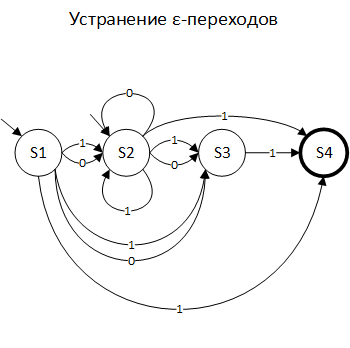
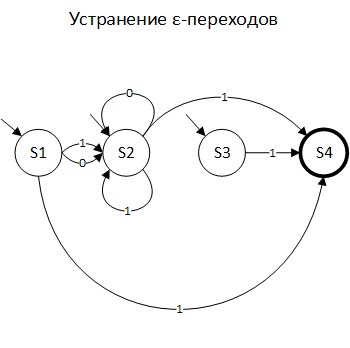
ТАиФЯ Лаб 3 правки второго задания

diff --git a/Теория автоматов и формальных языков/3/report.tex b/Теория автоматов и формальных языков/3/report.tex
@@ -289,7 +289,7 @@ $N_7$ → ε\\
 ε-замыкания: ε(S1) = \{S1, S2, S3\}, ε(S2) = \{S2, S3\}, ε(S3) = \{S3\}, ε(S4) = \{S4\}\\
 \begin{tabular}{|c|c|c|c|c|}
     \hline
-    & $\downarrow$ & $\downarrow$ & & 1\\
+    & $\downarrow$ & $\downarrow$ & $\downarrow$ & 1\\
     \hline
     & \begin{tabular}{c}ε(S1)\\\{S1, S2, S3\}\end{tabular} & \begin{tabular}{c}ε(S2)\\\{S2, S3\}\end{tabular} & \begin{tabular}{c}ε(S3)\\\{S3\}\end{tabular} & \begin{tabular}{c}ε(S4)\\\{S4\}\end{tabular} \\
     \hline
@@ -301,13 +301,13 @@ $N_7$ → ε\\
 
 \begin{tabular}{|c|c|c|c|c|}
     \hline
-    & $\downarrow$ & $\downarrow$ & & 1\\
+    & $\downarrow$ & $\downarrow$ & $\downarrow$ & 1\\
     \hline
     & S1 & S2 & S3 & S4 \\
     \hline
-    1 & S2, S3, S4 & S2, S3, S4 & S4 & \\
-    \hline
-    0 & S2, S3 & S2, S3 & & \\
+    1 & S2, S4 & S2, S4 & S4 & \\
+    \hline 
+    0 & S2 & S2 & & \\
     \hline
 \end{tabular} 
 
@@ -318,17 +318,17 @@ $N_7$ → ε\\
     \hline
     & & &\\
     \hline
-    & \{S1, S2\} & \{S2, S3\} & \{S2, S3, S4\}\\
+    & \{S1, S2, S3\} & \{S2\}         & \{S2, S4\}\\
     \hline
-    1 & \{S2, S3, S4\} & \{S2, S3, S4\} & \{S2, S3, S4\}\\
+    1 & \{S2, S4\}   & \{S2, S4\}     & \{S2, S4\}\\
     \hline
-    0 & \{S2, S3\} & \{S2, S3\} & \{S2, S3\}\\
+    0 & \{S2\}       & \{S2\}         & \{S2\}\\
     \hline
 \end{tabular} 
 
 Обозначим множества состояний как S'1, S'2, S'3...\\
-S'1 обозначим как начальное состояние, солгасно алгоритму, а 
-S'3 обозначим как допускающее состояние, так как множество $\{S2, S3, S4\}$
+S'1 обозначим как начальное состояние, согласно алгоритму, а 
+S'3 обозначим как допускающее состояние, так как множество $\{S2, S4\}$
 включает в себя допускающее состояние S4.
 
 \begin{tabular}{|c|c|c|c|}
